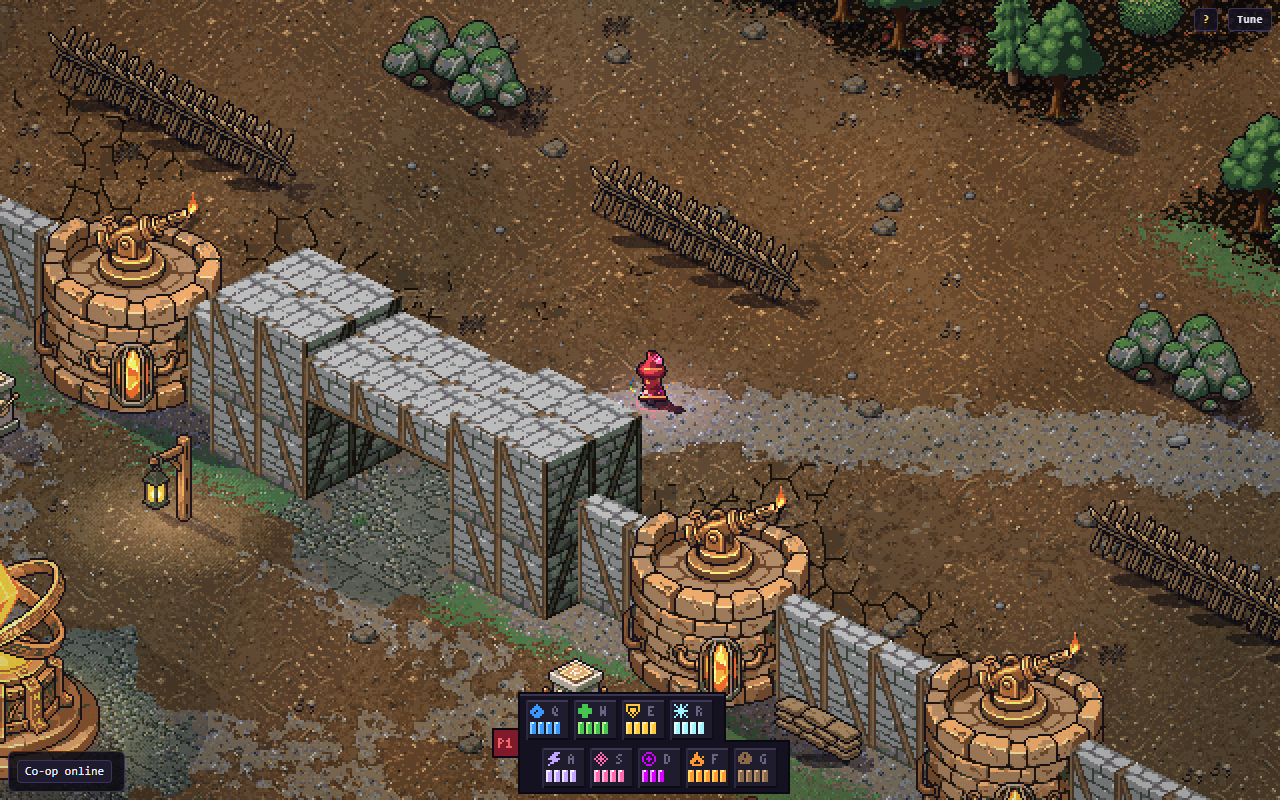
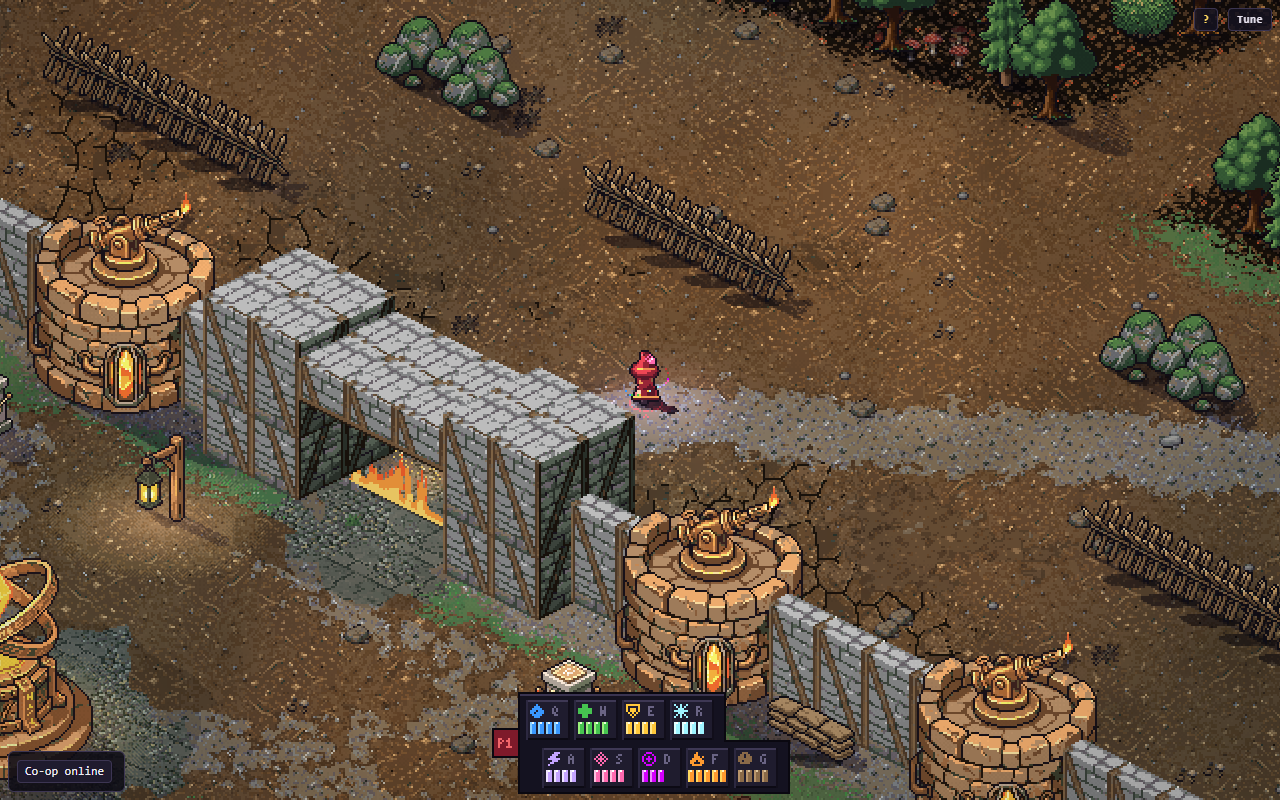
The battery's gate is a wall of fire
A standing Shield + Fire + Fire curtain in the opening, owned by the place. Outdoor fortifications are written up on the page for sign-off, not bought. Golden hash unchanged.

Claude-Session: https://claude.ai/code/session_01JAzvjmRJ1wdD5eYGXNht1d

diff --git a/tools/segments/01-opening/segment.js b/tools/segments/01-opening/segment.js
@@ -13,7 +13,8 @@ stages:[
  ['Brief','draft'],['Beat chart','draft'],['Space diagram','review'],['Blockout','started','The battery is walkable'],['Script','later'],['Dressing','started','General art bought'],['Finish','later'],
 ],
 needsYou:[
- ['#buy-gate',`The gate is rebuilt from the wall kit for free. An arched version is optional, and needs your Approve if you want it.`],
+ ['#buy-fort',`A full set of outdoor fortifications, in stone that matches the towers. It needs your Approve.`],
+ ['#solve-battery-fire-gate',`The gate is now a wall of fire. Should it go out when the well runs dry?`],
  ['#beat-4',`Walk the battery and tell me what still feels off.`],
 ],
 onMe:[`Driving a defence: take control, cast from the tower, and the pool that fails.`,`Redraw the yard from your notes.`,`Revisit the pacing of the walks now that they can be long.`],
@@ -77,7 +78,7 @@ chapters:[
  [`More air.`,` The area is now 84 × 72. The defences stand 13 apart, the rear yard is half as deep again, the well sits 19 back from the wall, and the stores keep to their own corner.`],
  [`Tower size is right,`,` at about three and a half wizards wide.`],
  [`The towers don't all have to fit one screen.`,` A neighbouring pair fits at 1080p, and that's fine.`],
- [`The gate is built from the wall kit,`,` so it has the wall's own stone, colour and true isometric angle. No doors for now.`],
+ [`The gate is a wall of fire,`,` Shield + Fire + Fire, the same spell a wizard casts. You can walk through it and it burns you. The stonework around it is a stand-in from the wall kit.`],
  [`Stone paving follows the ground's angle,`,` so the cobbles at the gate, the road and the well no longer look top-down.`],
  [`One lane per player.`,` Each wave sends the same number of enemies at each occupied defence, and they go for their own lane's defence first. Neighbouring reach overlaps so players can help. Solo is one lane at the centre.`],
  [`Each wave is built for one Fire attack.`,` Archers beyond spray reach call for Place, a swarm of small enemies for the burst, something heavy at the wall for the flamethrower. Wave sizes wait for the flamethrower and burst balance.`],
@@ -85,6 +86,7 @@ chapters:[
  [`The repair.`,` You take part, or do it yourselves, with a simple "press X to stabilize". The screen fades to black and back, and the well has changed: Unstable, then Drained, then Stable.`],
  ],
  solve:[
+ {id:'battery-fire-gate',title:'What the wall of fire does in the story',body:`The gate is closed by a standing wall of flame. It fits the place: Fire defences, fed by a Fire well. Right now it burns forever, and it burns you too.`,proposal:`It's fed by the same well, so when the pool runs dry at beat 6 the fire gutters and goes out with it. That makes the failure visible along the wall, and it's how the enemies get through at beat 7. You never have to cross it while it's lit, so burning you is fine. It also shows the player Shield + Fire long before they own those runes.`},
  ]},
 ],
 rules:[
@@ -94,11 +96,16 @@ rules:[
  ['Four wizards fit.',' A Fire ring is 3 units in radius, so a fight wants about 6 units per player, and a room at least 24 by 18.'],
  ['Walks vary, and some are long.',' Sometimes you walk a while before anything happens, because that makes the world feel real. You cross a screen in about 7 seconds.'],
 ],
-buy:[{id:'job-gate',anchor:'buy-gate',name:`An arched gate (optional)`,cost:4,costLabel:'Up to 4 generations, not bought',tool:'Up to four tries at 1 generation each, with the wall kit shown as a style reference. Nothing is bought until you mark Approve.',
- why:`The gate in the game now is built from the wall kit, for free, so its stone and angle match exactly. It is plain, though, with a square, low opening and no doors. This purchase would add an arch and doors.`,
- points:[[`The risk.`,` PixelLab's own help says its tools can't guarantee one large object lines up with the isometric axis, so some tries may come back at the wrong angle. That's why I'd cap it at four cheap tries.`],[`What I'd do.`,` Keep the kit gate until the battery plays, and buy this only if it still bothers you then.`]],
- lines:['A fortified gatehouse in 2:1 isometric view, its wall running from the upper left down to the lower right. Two square towers of pale grey dressed stone with diagonal oak timber bracing, joined by a tall rounded stone arch, with two heavy oak doors standing open inward. Flat stone tops. Medieval fantasy fortification. Hi-bit pixel art, dark outline.'],
- images:[['img/battery-gate.png','The gate built from the wall kit, with two square stone pylons and a full-depth stone span between them','The free gate now in the game, built from the kit the wall uses.']]},
+buy:[{id:'job-fort',anchor:'buy-fort',name:`Outdoor fortifications`,cost:19,costLabel:'About 19 generations, not bought',tool:'Two steps: one building kit (15 generations) and up to four tries at the gate (1 each, using the new wall as a style reference). Nothing is bought until you mark Approve.',
+ why:`The wall we have came from a tool that makes walls for buildings: square tiles and timber bracing, closer to a barn than a fortress. That's why the gate looks boxy. This buys a set made for the job.`,
+ points:[
+  [`What you'd get.`,` Straight wall, corners, wall ends, pillars and stairs up to the wall, from the kit, and a proper arched gatehouse on top of that.`],
+  [`The stone.`,` Warm tan sandstone, to match the defence towers. Right now the grey wall and tan towers don't belong together.`],
+  [`No doors.`,` The opening is closed by the wall of fire, so the arch stands open.`],
+  [`The risk.`,` PixelLab's help says it can't guarantee one large object lines up with the isometric axis, so some gate tries may come back at the wrong angle. The kit pieces don't have that problem, and if every gate try fails I'd build the arch from the new kit's pieces.`],
+ ],
+ lines:['Kit, walls: A massive outdoor fortress curtain wall of large warm tan sandstone blocks, rough-dressed and weathered, with dark mortar lines and crenellated battlements along the top. Kit, floor: trampled packed earth. Kit, upper floor: worn tan flagstones. Isometric, 48 px tiles, walls 2 tiles high, our palette.','Gate: A fortified gatehouse in 2:1 isometric view, its wall running from the upper left down to the lower right. Two square towers of large warm tan sandstone blocks with crenellated tops, joined by a tall rounded stone arch over an open passage. Medieval fantasy fortification. Hi-bit pixel art, dark outline.'],
+ images:[['img/battery-gate.png','The stand-in gate built from the wall kit, two square stone pylons and a stone span with flames burning in the opening','The stand-in in the game now, with the wall of fire in its opening.']]},
 {id:'job-well',anchor:'buy-well',name:`The well`,cost:14,costLabel:'10 generations',tool:'Bought. Candidate 2 of the four is in the battery as a stand-in, so say if you would rather have another. The column of light and the states are still to come.',
  why:`Not a hole in the ground. Your images are structures that hold up a column of light, so I've dropped the ring-around-a-basin idea.`,
  points:[

diff --git a/game/packages/client/src/view-structures.ts b/game/packages/client/src/view-structures.ts
@@ -37,6 +37,9 @@ import type { BodyView, LightFn } from './art/vfx';
 import { glyph, perkOf } from './art/perks';
 import { drawTutorialWorld } from './tutorial-view';
 import { kitOf, kitRun, stampTexture, wallsAllFar } from './art/wall-kit';
+
+/** A wall of fire that belongs to the place (the battery's gate) stands this much taller than a cast one. */
+const GATE_FIRE = 2.2;
 import { toX, toY } from './iso-world';
 import { RISE_STEPS, SLAB_OX, SLAB_OY, SlabCache, facePoint, paintSlab, wallGeom, type WallGeom, type WallSpec } from './art/walls';
 
@@ -760,7 +763,7 @@ export class StructureView {
     const wl = w.walls, coat = wallLead(wl.els, k) || ELID.arcane, el = elName(coat), R = ramp(coat), sd = k * 13;
     const pulse = 1 - clamp(((w.clock[0] - wl.born[k]) % 30) / 8, 0, 1);
     const x0 = Math.min(a[0], bb[0]), x1 = Math.max(a[0], bb[0]), y0 = Math.min(a[1], bb[1]), y1 = Math.max(a[1], bb[1]);
-    const h = (el === 'fire' ? 15 : 14) * rise, head = 18;
+    const h = (el === 'fire' ? 15 : 14) * (wl.owner[k] === TERRAIN ? GATE_FIRE : 1) * rise, head = 18;
     const c = this.pieces.canvas(x0 - 6, y0 - h - head, x1 - x0 + 13, y1 - y0 + h + head + 6, mid[1]);
     const P = S.sample([a, bb], 4);
     if (el === 'fire') {
@@ -785,7 +788,8 @@ export class StructureView {
         if (hh > 9 && wv > 0.97) X.px(c, xx + Math.round(sw * hh * 0.14), yy - hh, FR[0]);
       }
       for (const p of emit(t, 4 * P.length, 1, (i, age) => { const q = P[mod(i, P.length)]; return { x: q[0] + Math.sin(age * 5 + i) * 2, y: q[1] - h * 0.6 - age * 14, age }; })) X.px(c, p.x, p.y, p.age < 0.5 ? EL.fire[1] : EL.fire[3]);
-      light(mid[0], mid[1], 40, '#ff7020', 0.6 * rise);
+      if (wl.owner[k] === TERRAIN) light(mid[0], mid[1] - 16, 36, '#ff7020', 0.6 * rise); // set back, or its glow reaches the gate's anchor and washes out the whole sprite
+      else light(mid[0], mid[1], 40, '#ff7020', 0.6 * rise);
       return;
     }
     if (el === 'life') {

diff --git a/game/packages/sim/src/world.ts b/game/packages/sim/src/world.ts
@@ -7,6 +7,7 @@
  * always runs in slot order, so every peer visits entities in the same order.
  */
 import { ARENA, BODY, CELL, PERKS, RUNES } from './config';
+import { WALL } from './compile';
 import { EL, N_EL, elementName } from './elements';
 import { createRng, type RngState } from './rng';
 import { roomHash, type RoomDef, type Seg } from './room';
@@ -570,7 +571,22 @@ export function createWorld(seed: number, players: number, opts: { dummies?: boo
   const arena = opts.room === 'arena' || opts.room === 'survive';
   if (arena) { w.enc.state[0] = PHASE_ENC.lull; w.enc.state[1] = 1; w.enc.state[2] = 0; }
   else if (opts.dummies !== false && !w.tut) for (const [x, y] of def.dummies) spawnBody(w, -1, KIND.dummy, TEAM.enemies, x, y, BODY.dummyHp, BODY.dummyRadius);
+  if (opts.room === 'battery') raiseGateFire(w);
   return w;
+}
+
+/**
+ * The battery's gate is closed by a standing wall of fire: Shield + Fire + Fire, the same curtain a wizard casts, so it
+ * burns whoever crosses it and stops nothing. It belongs to the place, so it never drains anyone or breaks. The span is
+ * the gate's opening (tools/segments/01-opening/battery-level.py: GATE and WALL_Y).
+ */
+function raiseGateFire(w: World): void {
+  const wl = w.walls, k = 0;
+  wl.type[k] = WALL.curtain; wl.owner[k] = TERRAIN;
+  wl.x1[k] = -3; wl.y1[k] = -1; wl.x2[k] = 3; wl.y2[k] = -1;
+  wl.hp[k] = wl.maxHp[k] = 100;
+  wl.els[k * N_EL + EL.shield - 1] = 1;
+  wl.els[k * N_EL + EL.fire - 1] = 2;
 }
 
 /** A player takes seat `i`: its wizard appears at the seat's start spot with full rune pools. */

diff --git a/game/packages/sim/test/battery.test.ts b/game/packages/sim/test/battery.test.ts
@@ -1,0 +1,27 @@
+// The battery's gate: a standing wall of fire you can walk through, and it burns you.
+import { describe, expect, it } from 'vitest';
+import { EL, N_EL, NO_INPUT, WALL, createWorld, step } from '../src';
+
+const NO_INPUTS = [NO_INPUT, NO_INPUT, NO_INPUT, NO_INPUT];
+
+describe('the battery gate', () => {
+  it('starts with a curtain of Shield + Fire + Fire across the opening, and no other room does', () => {
+    const w = createWorld(1, 1, { room: 'battery' });
+    expect(w.walls.type[0]).toBe(WALL.curtain);
+    expect(w.walls.els[EL.fire - 1]).toBe(2);
+    expect(w.walls.els[EL.shield - 1]).toBe(1);
+    expect(N_EL).toBeGreaterThan(0);
+    expect(createWorld(1, 1, { room: 'sanctum' }).walls.type[0]).toBe(WALL.none);
+  });
+
+  it('burns a wizard in it, lets them stay there, and never goes out or costs Shield', () => {
+    const w = createWorld(1, 1, { room: 'battery' }), b = w.bodies;
+    const pool = w.seats.runes[EL.shield - 1];
+    b.x[0] = 0; b.y[0] = -1;
+    for (let i = 0; i < 90; i++) step(w, NO_INPUTS);
+    expect(b.burn[0]).toBeGreaterThan(0);
+    expect(Math.abs(b.y[0] + 1)).toBeLessThan(0.3);
+    expect(w.walls.type[0]).toBe(WALL.curtain);
+    expect(w.seats.runes[EL.shield - 1]).toBe(pool);
+  });
+});

diff --git a/docs/current-state.md b/docs/current-state.md
@@ -52,7 +52,7 @@ Play it: https://magnevan.github.io/wizard-sim/ (code in `../game/`, commands in
 - **A ground painter exists, and no room uses it yet:** a client-only Ground layer in LDtk (twelve materials, each with its own edge style, plus alternates and scattered props), painted per pixel through the camera. Rooms with no Ground cells keep the code-drawn floor. How to edit: `game/content/README.md`. D: [The ground painter](decisions/README.md#2026-11-09-the-ground-painter-and-the-first-general-art-for-the-opening-campaign01-openingspacemd).
 - **Room walls can come from a bought kit** (the Academy's do; how: `game/content/README.md`). Far walls stand tall and near walls are cut low. Other rooms keep the drawn walls.
 - **Scene lighting:** a mood per room (`?mood=day|dusk|night|interior`, `?lighting=0` for off), cast shadows, lamps on props, a colour grade. See `explorations/2026-11-09-lighting.md`. Walls stop light and their faces catch it, and spells light along their length. It hasn't been measured on a real graphics card.
-- **The battery** (`#battery`, key 6): the opening's first job, built as an outdoor area, 84 x 72: the fortified wall through the middle, four defences, the well, a killing ground and a rear yard, with woods painted past the edge so it doesn't read as a room. You can walk it, and nothing happens yet. D: [The battery is an outdoor area](decisions/README.md#2026-11-10-the-battery-is-an-outdoor-area).
+- **The battery** (`#battery`, key 6): the opening's first job, built as an outdoor area, 84 x 72: the fortified wall through the middle, four defences, the well, a killing ground and a rear yard, with woods painted past the edge so it doesn't read as a room. A standing wall of fire (Shield + Fire + Fire) fills the gate: you can walk through it and it burns you. You can walk the area, and nothing else happens yet. D: [The battery is an outdoor area](decisions/README.md#2026-11-10-the-battery-is-an-outdoor-area).
 - **The Sanctum** (default): three practice dummies, with the tuning panel (F1). **The Arena** (`#arena`): waves from portals, lulls and breathers. **Survive** (`#survive`): a 48 x 34 walled arena, endless waves. D: [Survive mode in the game](decisions/README.md#2026-11-05-survive-mode-in-the-game-explorations2026-11-05-survive-modemd), [Survive grows to 48 x 34](decisions/README.md#2026-11-05-survive-grows-to-48-x-34-guards-read-from-behind-a-stalled-page-no-longer-drops-the-others).
 - **The camera follows your own wizard, in every room,** at one fixed scale (no zoom-out), stopping a little past the arena's edge; where the arena fits the screen it only drifts toward you. Other wizards off screen get an arrow at the edge in their seat colour (blinking while downed), beside the enemy and portal marks. Several local seats on one screen share it: the camera aims at their middle, and an arena that fits is framed still. D: [Survive Review answers, round 1](decisions/README.md#2026-11-05-survive-review-answers-round-1).
 - **Every enemy's attack reads in four beats:** a telegraph pose held for the whole wind-up (goblin-sized bodies crouch and lean back), a strike frame with a smear, an impact or release (the brute's crack, debris and shake; the imp's spit of flame; the archer's string snap), and a recovery. A ring round a grabbed wizard closes as the throw nears. Drawn purely from the sim's attack state.

diff --git a/docs/decisions/README.md b/docs/decisions/README.md
@@ -1133,3 +1133,5 @@ The user asked for an audit of how spells scale with extra runes, and for it to 
 - **All four towers don't need to fit one screen** (the user), so the spacing stays.
 - **The gatehouse gets thickness** (the user: it looked flat). Its front is extruded back through the wall by hand, with lit tops and shaded brick sides, still with no generations spent.
 - **The gate is built from the wall's own kit** (the user: its colour and brickwork didn't match, and the doors looked flat). It replaces the re-angled gatehouse. Two block pylons and a stone span, with no doors for now. An arched version is written up on the page, optional. Cobble is now sampled along the ground's angle, as it looked top-down.
+- **The gate is a wall of fire** (the user: Shield + Fire + Fire, "it fits with the theme"). It's the game's own curtain, owned by the place, so it never drains anyone. That it goes out when the well runs dry is a proposal on the page.
+- **The kit-built gate is a stand-in.** The user found its square shapes clunky. A set of outdoor fortifications is written up on the page, not bought.
